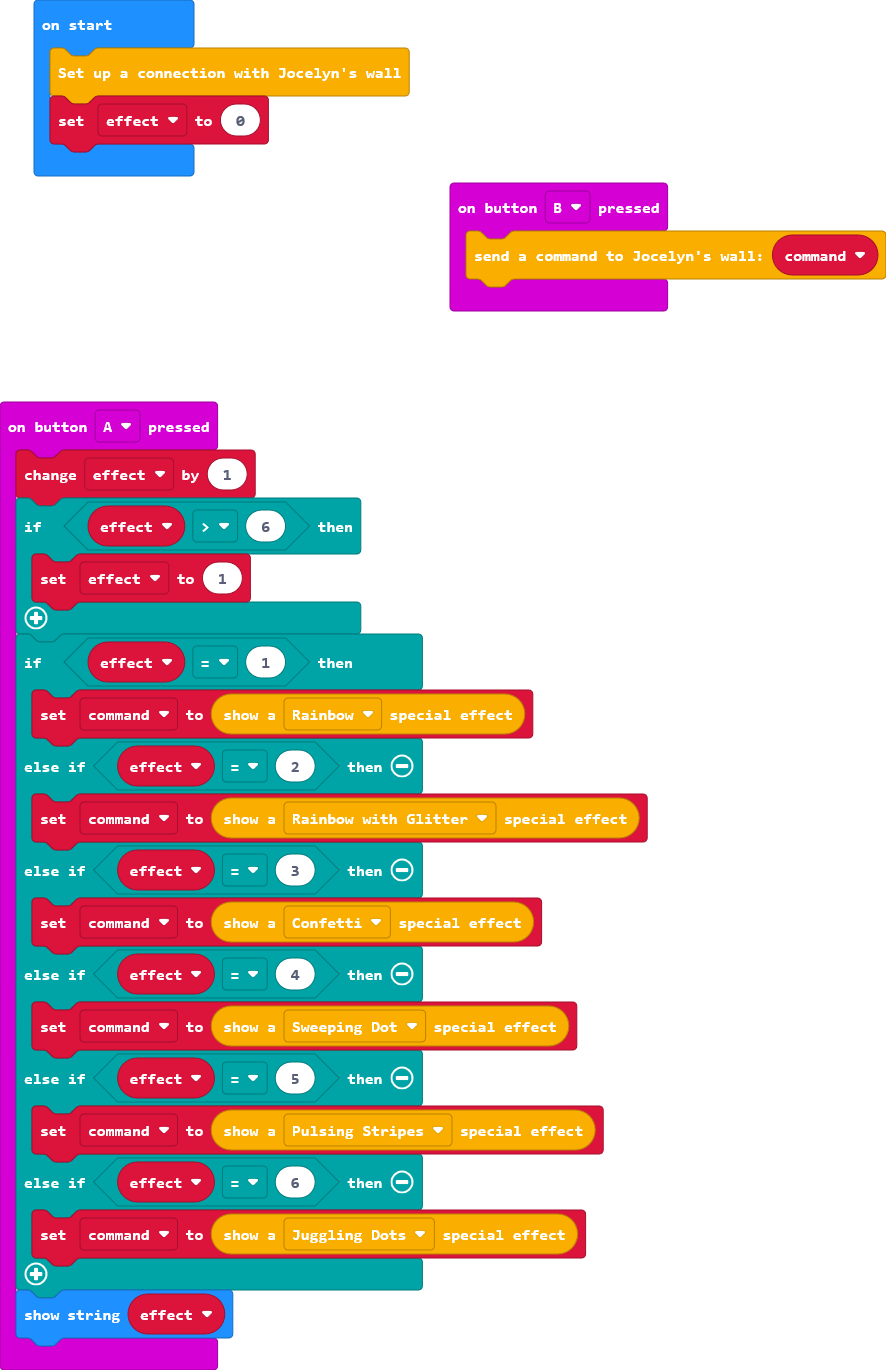
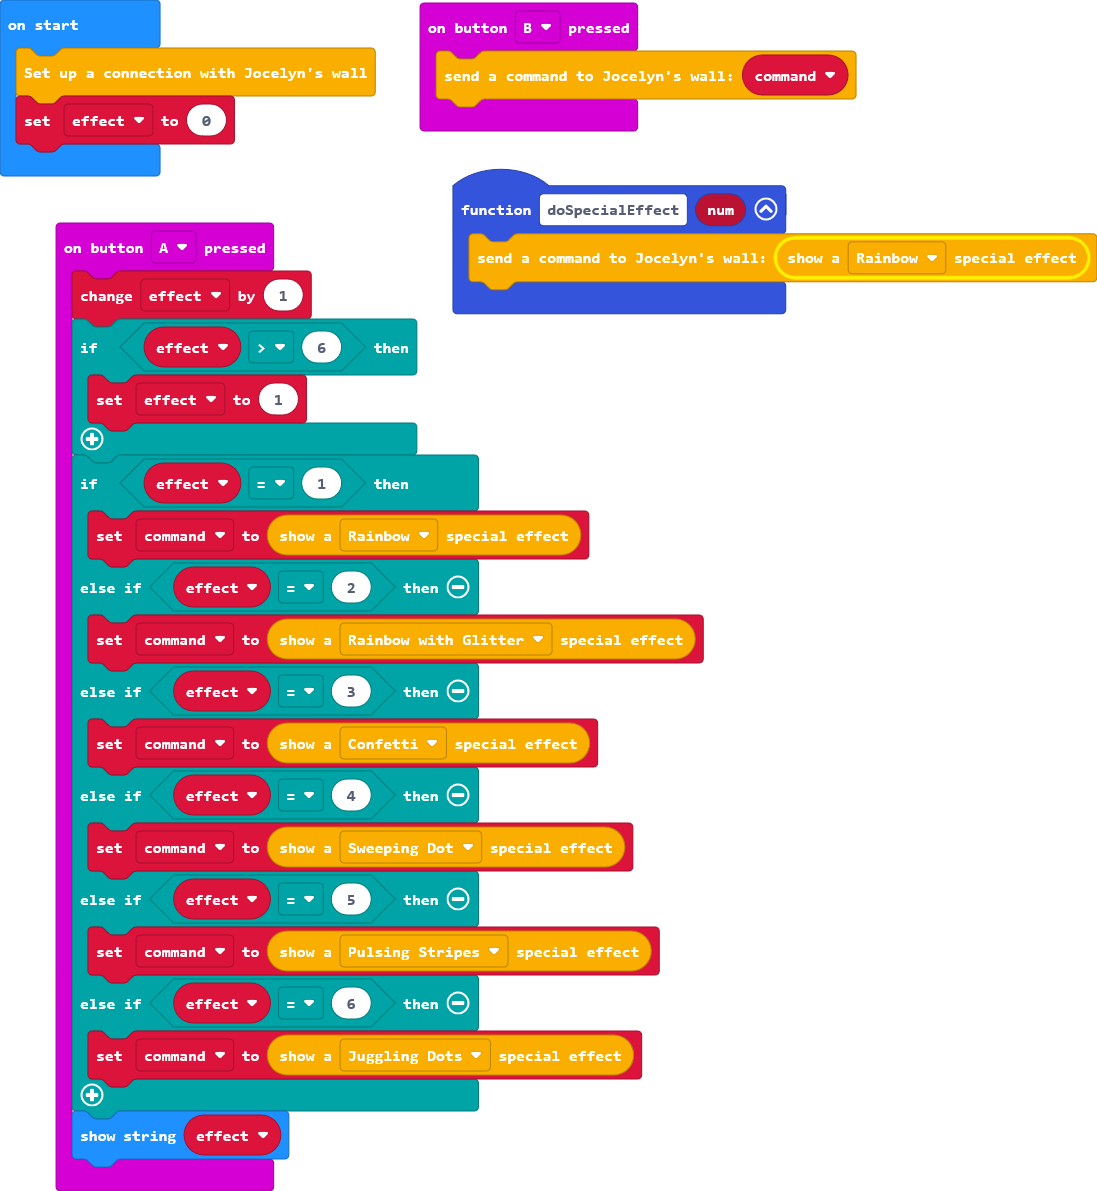
started new function

diff --git a/main.ts b/main.ts
@@ -21,6 +21,9 @@ input.onButtonPressed(Button.A, function () {
 input.onButtonPressed(Button.B, function () {
     jC_Lights.sendWallCommand(command)
 })
+function doSpecialEffect (num: number) {
+    jC_Lights.sendWallCommand(jC_Lights.specialEffectCommand(SpecialEffect.Rainbow))
+}
 let command = ""
 let effect = 0
 jC_Lights.setWallConnection()

diff --git a/lights.ts b/lights.ts
@@ -49,6 +49,10 @@ namespace jC_Lights {
         serial.writeLine(command)
     }
 
+    function doSpecialEffect(num: number) {
+        jC_Lights.sendWallCommand(jC_Lights.specialEffectCommand(SpecialEffect.Rainbow))
+    }
+    
     /**
      * Translates a special effect into a command string
      */
